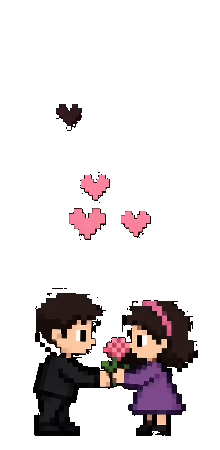
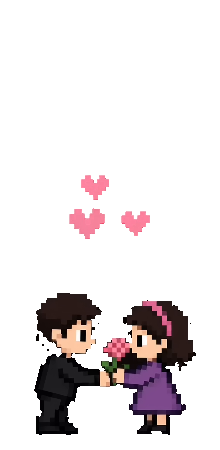
Clean hero animation edges and heart fades so it reads well on light mode

diff --git a/experiencias-digitales.html b/experiencias-digitales.html
@@ -8,7 +8,7 @@
   <link rel="canonical" href="https://rotfstudio.com/experiencias-digitales.html">
   <link rel="preload" href="assets/fonts/dm-sans-latin.woff2" as="font" type="font/woff2" crossorigin>
   <link rel="preload" href="assets/fonts/space-grotesk-latin.woff2" as="font" type="font/woff2" crossorigin>
-  <link rel="stylesheet" href="css/fonts.css?v=1"><link rel="stylesheet" href="css/pages.css?v=69"><link rel="stylesheet" href="css/scroll-effects.css?v=23"><link rel="stylesheet" href="css/card-effects.css?v=4"><link rel="stylesheet" href="css/web-projects.css?v=7"><link rel="stylesheet" href="css/experiencias.css?v=14">
+  <link rel="stylesheet" href="css/fonts.css?v=1"><link rel="stylesheet" href="css/pages.css?v=69"><link rel="stylesheet" href="css/scroll-effects.css?v=23"><link rel="stylesheet" href="css/card-effects.css?v=4"><link rel="stylesheet" href="css/web-projects.css?v=7"><link rel="stylesheet" href="css/experiencias.css?v=16">
   <meta property="og:type" content="website"><meta property="og:locale" content="es_MX"><meta property="og:site_name" content="ROTF Studio">
   <meta property="og:title" content="Experiencias digitales — ROTF Studio"><meta property="og:description" content="Flores, recuerdos, juegos y sorpresas para regalar algo que se siente."><meta property="og:url" content="https://rotfstudio.com/experiencias-digitales.html"><meta property="og:image" content="https://rotfstudio.com/img/rotf-social.png"><meta property="og:image:alt" content="ROTF Studio — Experiencias digitales a tu medida">
   <meta name="twitter:card" content="summary_large_image"><meta name="twitter:title" content="Experiencias digitales — ROTF Studio"><meta name="twitter:description" content="Flores, recuerdos, juegos y sorpresas para regalar algo que se siente."><meta name="twitter:image" content="https://rotfstudio.com/img/rotf-social.png">
@@ -21,8 +21,8 @@
   <main id="contenido">
     <section class="page-hero experience-hero" aria-labelledby="experience-title">
       <picture class="experience-hero-media" aria-hidden="true">
-        <source media="(prefers-reduced-motion: reduce)" srcset="img/experiencias-hero-still.webp?v=4">
-        <img class="experience-hero-video" src="media/experiencias-hero.webp?v=5" alt="" width="220" height="450" decoding="async" fetchpriority="high">
+        <source media="(prefers-reduced-motion: reduce)" srcset="img/experiencias-hero-still.webp?v=6">
+        <img class="experience-hero-video" src="media/experiencias-hero.webp?v=7" alt="" width="220" height="450" decoding="async" fetchpriority="high">
       </picture>
       <img class="experience-hero-logo" src="img/logo-mobile.webp" alt="ROTF Studio" width="512" height="512">
       <p class="section-label">PARA ALGUIEN ESPECIAL</p>
